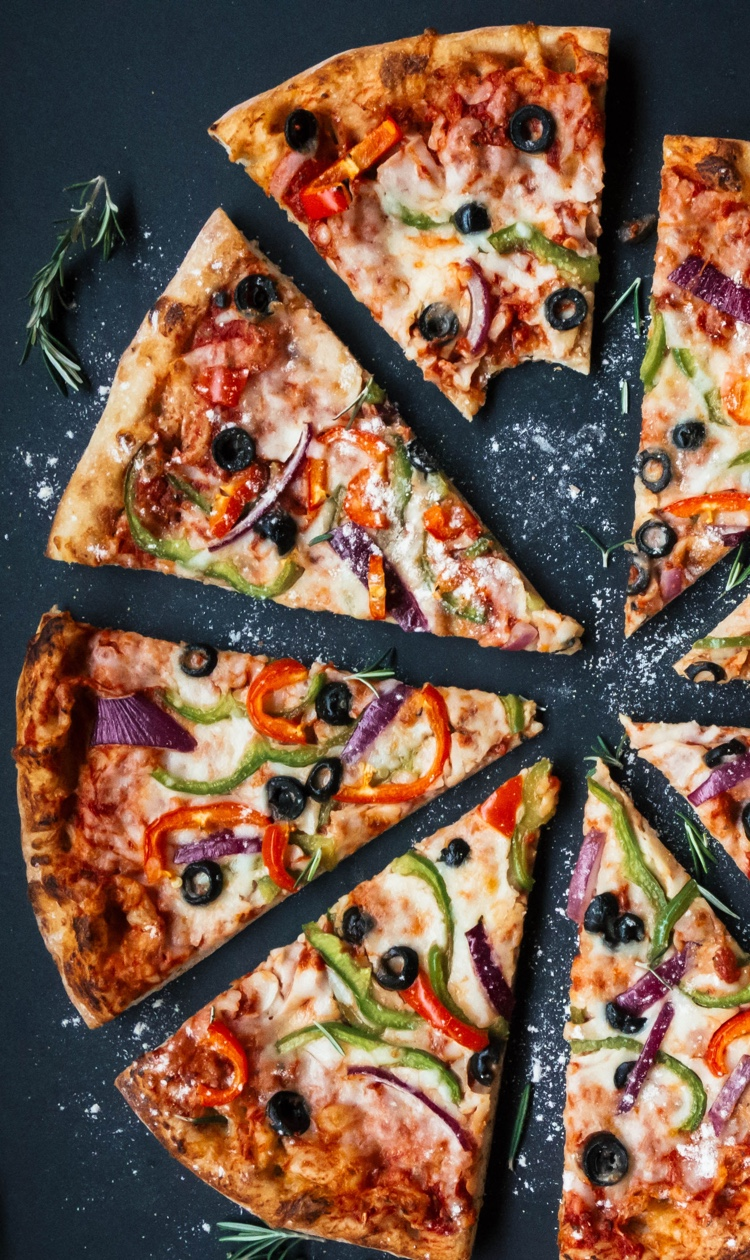
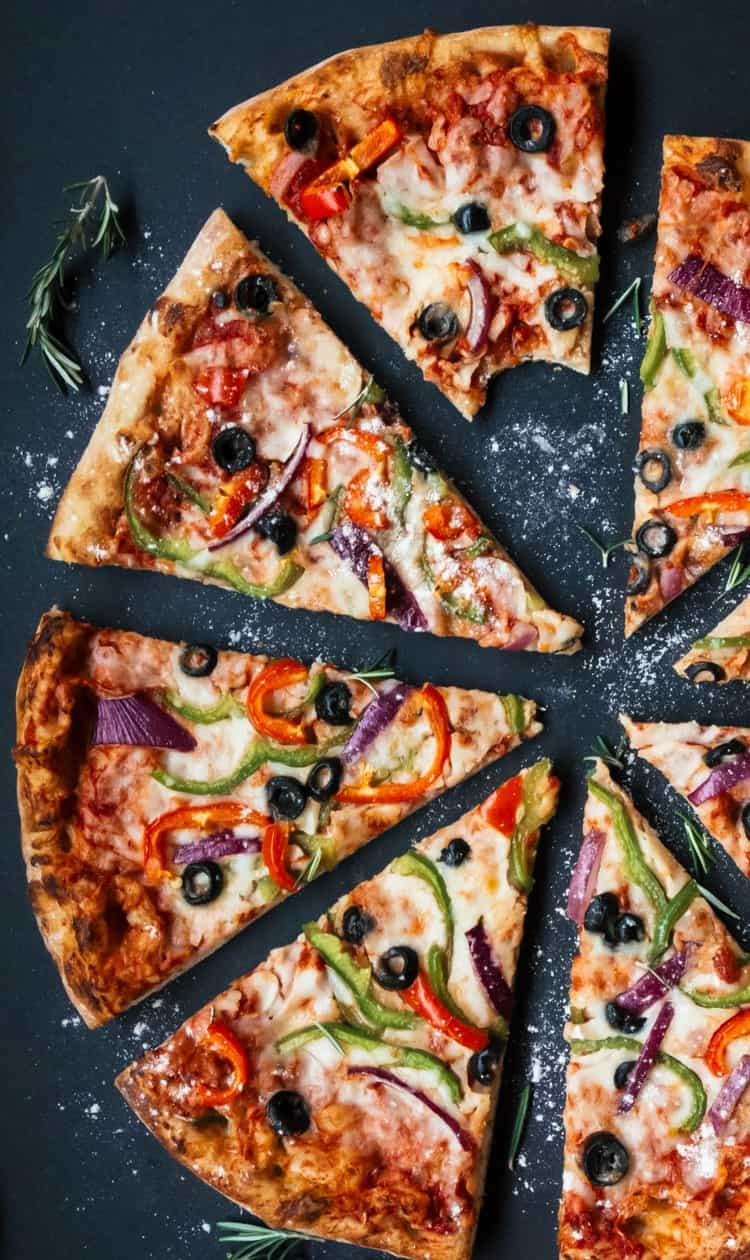
image optimization

diff --git a/main.css b/main.css
@@ -314,7 +314,7 @@ section.benefits {
 
 section.testimonials {
   background-color: green;
-  background-image: url("img/2@-testimonials-background-waves.png"), linear-gradient(133deg, #0D9B49 0%, rgba(25, 206, 101, 0.6) 100%), url("img/pizza-img@2x.png");
+  background-image: url("img/2@-testimonials-background-waves.png"), linear-gradient(133deg, #0D9B49 0%, rgba(25, 206, 101, 0.6) 100%), url("img/pizza-img@2x.jpg");
   background-position: center top, center center, center center;
   background-size: contain, cover, cover;
   background-repeat: no-repeat;
@@ -504,7 +504,7 @@ footer {
   section.benefits > .container .row:last-of-type {
     margin-top: 16px; }
   section.testimonials {
-    background-image: url("img/2@-testimonials-background-waves.png"), linear-gradient(133deg, #0D9B49 0%, rgba(25, 206, 101, 0.6) 100%), url("img/pizza-img-mobile@2x.png");
+    background-image: url("img/2@-testimonials-background-waves.png"), linear-gradient(133deg, #0D9B49 0%, rgba(25, 206, 101, 0.6) 100%), url("img/pizza-img-mobile@2x.jpg");
     background-position: left top, center center, center center;
     background-size: 100rem, cover, cover; }
   section.promote {

diff --git a/scss/pages/_responsive.scss b/scss/pages/_responsive.scss
@@ -84,7 +84,7 @@
 	}
 
 	section.testimonials {
-		background-image: url("img/2@-testimonials-background-waves.png"), linear-gradient(133deg, #0D9B49 0%, rgba(25, 206, 101, 0.6) 100%), url("img/pizza-img-mobile@2x.png");
+		background-image: url("img/2@-testimonials-background-waves.png"), linear-gradient(133deg, #0D9B49 0%, rgba(25, 206, 101, 0.6) 100%), url("img/pizza-img-mobile@2x.jpg");
 		background-position: left top, center center, center center;
 		background-size: 100rem, cover, cover;
 	}

diff --git a/scss/pages/index.scss b/scss/pages/index.scss
@@ -218,7 +218,7 @@ section.testimonials {
 	background-image:
 		url('img/2@-testimonials-background-waves.png'),
 		linear-gradient(133deg, #0D9B49 0%, rgba(25,206,101,0.60) 100%),
-		url('img/pizza-img@2x.png');
+		url('img/pizza-img@2x.jpg');
 	
 	background-position: center top, center center, center center;
 	background-size: contain, cover, cover;
